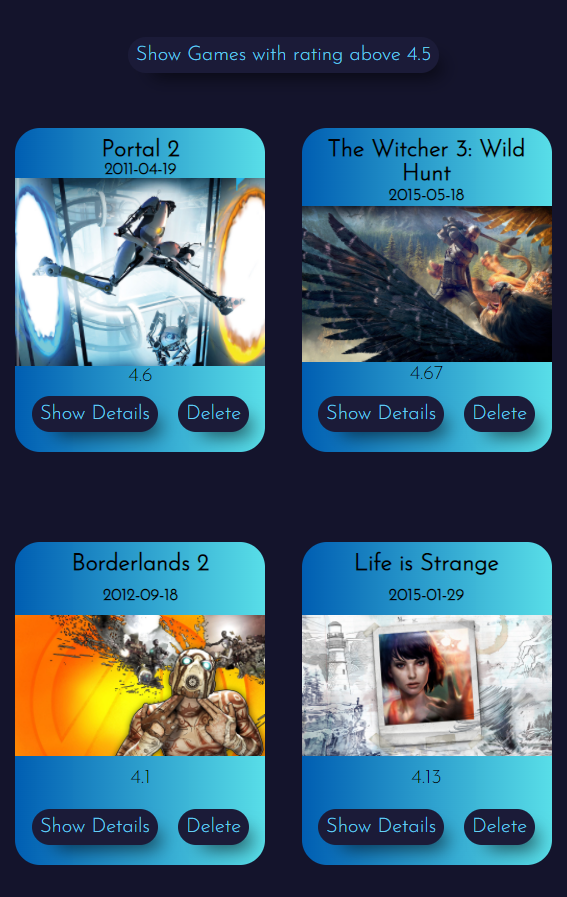
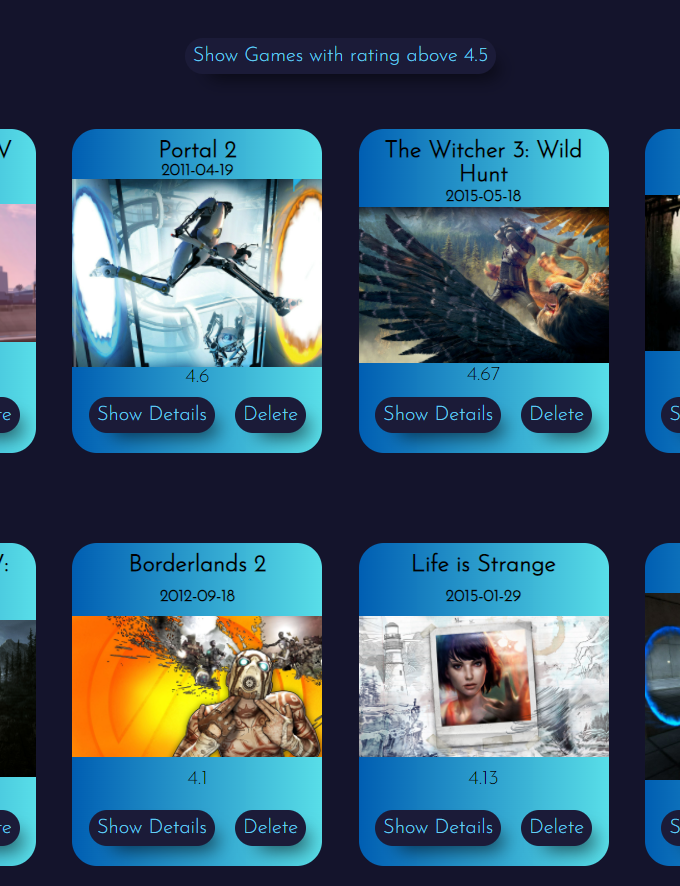
styling mobile

diff --git a/src/components/FlipCards.js/index.js b/src/components/FlipCards.js/index.js
@@ -1,20 +1,16 @@
 import React from "react";
-import photo from "../../images/pro-2.png";
-import photoNasa from "../../images/pro-6.png";
-import game from "../../images/games-12.png";
-import music from "../../images/adele.jpeg";
-import travel from "../../images/travel-1.png";
-import travel4 from "../../images/travel4.png";
+import project1 from "../../images/project1.png";
+import nasa from "../../images/nasa.png";
+import game from "../../images/game.png";
+import adele from "../../images/adele.jpeg";
+import travel from "../../images/travel.png";
 
 import Flip from "../../components/Flip";
 import "./index.css";
 function FlipCards() {
   return (
     <>
-      <Flip
-        href='https://misavojtova.github.io/project-nasa/'
-        photo={photoNasa}
-      >
+      <Flip href='https://misavojtova.github.io/project-nasa/' photo={nasa}>
         <p>
           Project <u>Nasa</u> was built by a group of Junior Developers for
           learning purposes. Fetching data from API, improving Html, Css,
@@ -22,7 +18,7 @@ function FlipCards() {
         </p>
       </Flip>
 
-      <Flip href='https://misavojtova.github.io/music-app-final/' photo={music}>
+      <Flip href='https://misavojtova.github.io/music-app-final/' photo={adele}>
         <p>
           Project <u>Music App</u> was built in 24 hours in collaboration with
           Junior Developers to take part in competition which was organized by
@@ -30,7 +26,7 @@ function FlipCards() {
         </p>
       </Flip>
 
-      <Flip href='https://vaniatavares.github.io/Project1/' photo={photo}>
+      <Flip href='https://vaniatavares.github.io/Project1/' photo={project1}>
         <p>
           Project <u>From Zero</u> was made in collaboration with Junior
           Developers in group of five for practising Html, Css, Git Bash and
@@ -48,7 +44,7 @@ function FlipCards() {
 
       <Flip
         href='https://misavojtova.github.io/travel-git-recommendations/'
-        photo={travel4}
+        photo={travel}
       >
         <p>
           Project <u>Game App</u> was one day project to strengthen my knowledge

diff --git a/src/components/FlipCards.js/index.css b/src/components/FlipCards.js/index.css
@@ -101,18 +101,19 @@
     border-radius: 2rem;
   }
   .flip-card {
-    all: initial;
     display: flex;
     border-radius: 2rem;
     overflow: hidden;
+    height: initial;
   }
   .front {
-    all: initial;
+    position: initial;
     width: 50%;
   }
   .back {
-    all: initial;
     width: 50%;
+    position: initial;
+    transform: initial;
   }
   .flip-container:hover .flip-card {
     transform: initial;

diff --git a/src/pages/mainPage.js/index.css b/src/pages/mainPage.js/index.css
@@ -54,7 +54,16 @@ a {
 /* "mobile" from 800px */
 @media only screen and (max-width: 890px) {
   .main-wrapper {
-    all: initial;
     height: 100%;
+    width: 100%;
+    display: block;
+    border-radius: 0;
+    max-width: initial;
+    min-width: initial;
+    overflow: initial;
+    background-color: transparent;
+  }
+  #root {
+    overflow-x: hidden;
   }
 }

diff --git a/src/components/Navigation/index.css b/src/components/Navigation/index.css
@@ -28,4 +28,8 @@
     height: auto;
     width: auto;
   }
+
+  .icons-wrapper {
+    flex-direction: row;
+  }
 }
